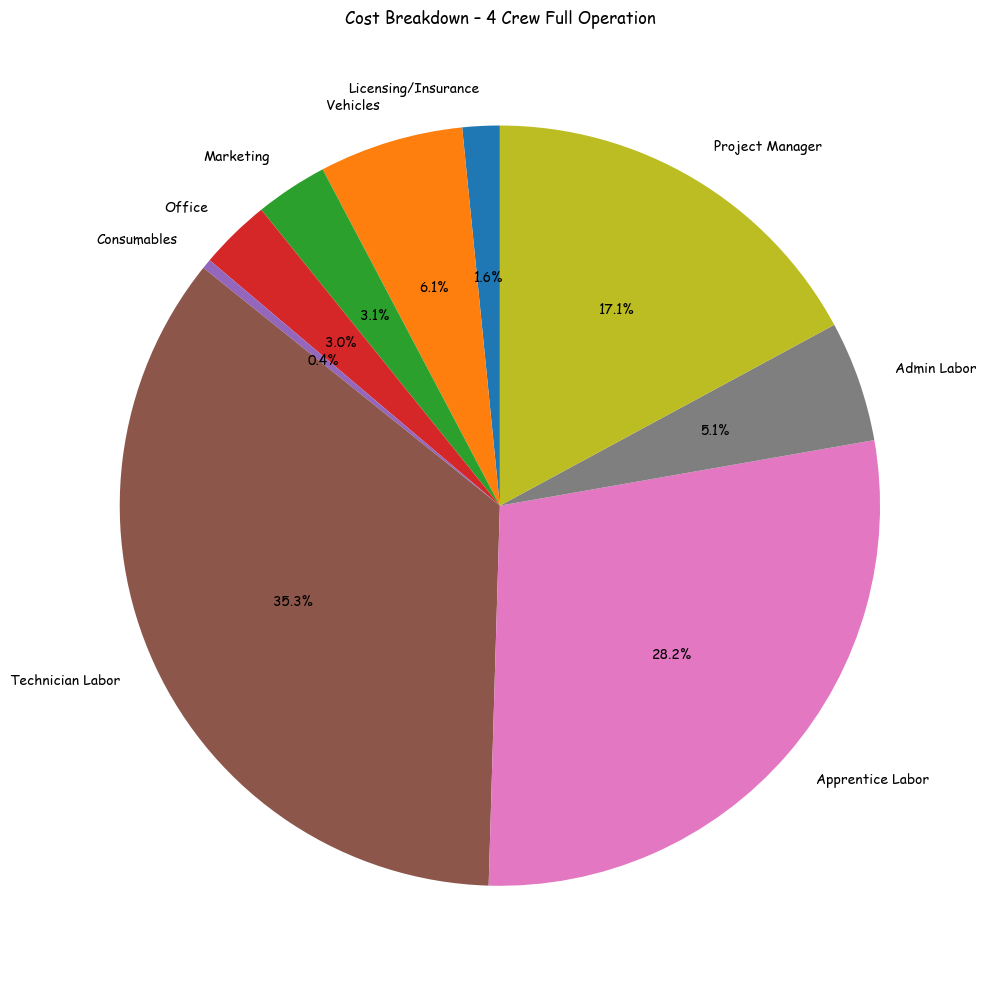
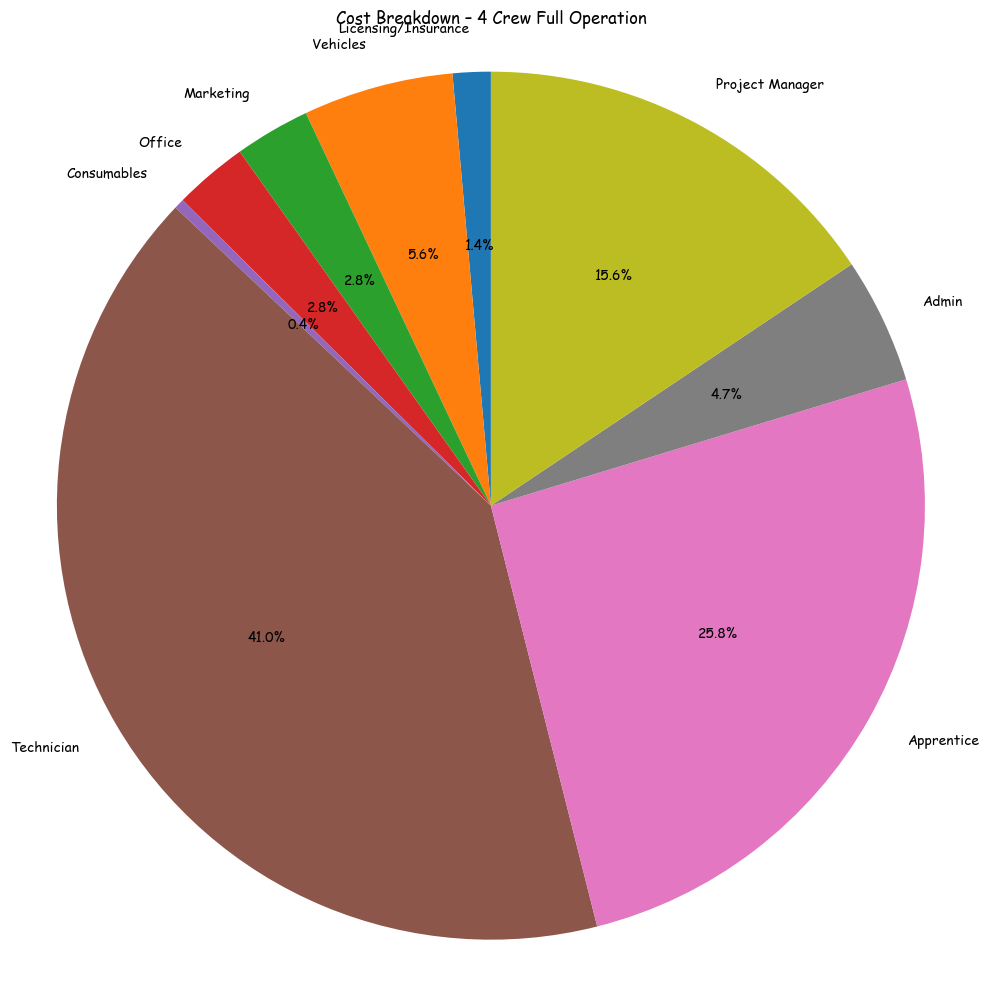
refactor: use new data source and make scripts data-driven

diff --git a/generate_charts.py b/generate_charts.py
@@ -35,17 +35,32 @@ def annotate_bars(ax: plt.Axes, bars: list[plt.Rectangle], formatter) -> None:
 
 def format_currency(value: float) -> str:
     """Return a human-friendly currency string rounded to the nearest dollar."""
-    return f"${value:,.0f}"
+    return f"${int(value):,}"
 
 def format_percent(value: float) -> str:
     """Return a percentage string with one decimal place."""
     return f"{value:.1f}%"
 
-def revenue_cost_profit_chart(data) -> None:
-    crews = [f"{i} Crew" + ("s" if i > 1 else "") for i in data.keys()]
-    revenue = np.array([d['monthly_revenue'] for d in data.values()])
-    costs = np.array([d['monthly_costs'] for d in data.values()])
-    profit = np.array([d['monthly_profit'] for d in data.values()])
+def revenue_cost_profit_chart(projections_data) -> None:
+    crews = ["1 Crew", "2 Crews", "3 Crews", "4 Crews"]
+    revenue = np.array([
+        float(projections_data[19][4].replace('$', '').replace(',', '')),
+        float(projections_data[19][6].replace('$', '').replace(',', '')),
+        float(projections_data[19][8].replace('$', '').replace(',', '')),
+        float(projections_data[19][10].replace('$', '').replace(',', '')),
+    ])
+    costs = np.array([
+        float(projections_data[18][4].replace('$', '').replace(',', '')),
+        float(projections_data[18][6].replace('$', '').replace(',', '')),
+        float(projections_data[18][8].replace('$', '').replace(',', '')),
+        float(projections_data[18][10].replace('$', '').replace(',', '')),
+    ])
+    profit = np.array([
+        float(projections_data[20][4].replace('$', '').replace(',', '')),
+        float(projections_data[20][6].replace('$', '').replace(',', '')),
+        float(projections_data[20][8].replace('$', '').replace(',', '')),
+        float(projections_data[20][10].replace('$', '').replace(',', '')),
+    ])
 
     x = np.arange(len(crews))
     width = 0.25
@@ -75,9 +90,21 @@ def revenue_cost_profit_chart(data) -> None:
     fig.savefig(OUTPUT_DIR / "revenue_chart.png", bbox_inches="tight")
     plt.close(fig)
 
-def profit_margin_chart(data) -> None:
-    crews = [f"{i} Crew" + ("s" if i > 1 else "") for i in data.keys()]
-    profit_margin = np.array([float(d['profit_margin'].strip('%')) for d in data.values()])
+def profit_margin_chart(projections_data) -> None:
+    crews = ["1 Crew", "2 Crews", "3 Crews", "4 Crews"]
+    revenue = np.array([
+        float(projections_data[19][4].replace('$', '').replace(',', '')),
+        float(projections_data[19][6].replace('$', '').replace(',', '')),
+        float(projections_data[19][8].replace('$', '').replace(',', '')),
+        float(projections_data[19][10].replace('$', '').replace(',', '')),
+    ])
+    profit = np.array([
+        float(projections_data[20][4].replace('$', '').replace(',', '')),
+        float(projections_data[20][6].replace('$', '').replace(',', '')),
+        float(projections_data[20][8].replace('$', '').replace(',', '')),
+        float(projections_data[20][10].replace('$', '').replace(',', '')),
+    ])
+    profit_margin = (profit / revenue) * 100
 
     x = np.arange(len(crews))
 
@@ -101,14 +128,9 @@ def profit_margin_chart(data) -> None:
     fig.savefig(OUTPUT_DIR / "profit_margin_chart.png", bbox_inches="tight")
     plt.close(fig)
 
-def cost_breakdown_chart() -> None:
-    with open('operating_expenses.csv', 'r') as f:
-        reader = csv.reader(f)
-        header = next(reader)
-        data = list(reader)
-
-    categories = [row[0] for row in data]
-    amounts = [int(row[4]) for row in data]
+def cost_breakdown_chart(projections_data) -> None:
+    categories = [row[1] for row in projections_data[9:18]]
+    amounts = [float(row[10].replace('$', '').replace(',', '')) for row in projections_data[9:18]]
 
     fig, ax = plt.subplots(figsize=(10, 10))
     
@@ -121,27 +143,12 @@ def cost_breakdown_chart() -> None:
     fig.savefig(OUTPUT_DIR / "cost_breakdown.png", bbox_inches="tight")
     plt.close(fig)
 
-def main() -> None:
-    with open('business_plan_data.csv', 'r') as f:
-        reader = csv.reader(f)
-        header = next(reader)
-        data = list(reader)
-
-    crew_data = {}
-    for row in data:
-        crew_count = int(row[0])
-        crew_data[crew_count] = {
-            'monthly_revenue': float(row[1]),
-            'monthly_costs': float(row[2]),
-            'monthly_profit': float(row[3]),
-            'profit_margin': row[4]
-        }
-
-    revenue_cost_profit_chart(crew_data)
-    profit_margin_chart(crew_data)
-    cost_breakdown_chart()
-    print("Charts regenerated successfully.")
-
-
 if __name__ == "__main__":
-    main()
+    with open('BIBLE/Nashville Electrical Business Plan - Projections.csv', 'r') as f:
+        reader = csv.reader(f)
+        projections_data = list(reader)
+
+    revenue_cost_profit_chart(projections_data)
+    profit_margin_chart(projections_data)
+    cost_breakdown_chart(projections_data)
+    print("Charts regenerated successfully.")

diff --git a/generate_business_plan.py b/generate_business_plan.py
@@ -43,21 +43,22 @@ def main():
     template = template.replace('{crew_3_monthly_costs_total}', format_currency(crew_data[3]['monthly_costs']))
     template = template.replace('{crew_4_monthly_costs_total}', format_currency(crew_data[4]['monthly_costs']))
 
-    with open('operating_expenses.csv', 'r') as f:
+    with open('BIBLE/Nashville Electrical Business Plan - Projections.csv', 'r') as f:
         reader = csv.reader(f)
-        header = next(reader)
-        operating_expenses_data = list(reader)
+        projections_data = list(reader)
 
     monthly_operating_costs_table = "| Category | 1 Crew Monthly | 2 Crew Monthly | 3 Crew Monthly | 4 Crew Monthly |\n|---|---|---|---|---|"
     totals = [0, 0, 0, 0]
-    for row in operating_expenses_data:
-        monthly_operating_costs_table += f"| {row[0]} | ${int(row[1]):,} | ${int(row[2]):,} | ${int(row[3]):,} | ${int(row[4]):,} |\n"
-        totals[0] += int(row[1])
-        totals[1] += int(row[2])
-        totals[2] += int(row[3])
-        totals[3] += int(row[4])
-    
-    monthly_operating_costs_table += f"| **Total Monthly Costs** | **${totals[0]:,}** | **${totals[1]:,}** | **${totals[2]:,}** | **${totals[3]:,}** |\n"
+    for i in range(9, 18):
+        row = projections_data[i]
+        monthly_operating_costs_table += f"| {row[1]} | ${int(row[4].replace('$', '').replace(',', '')):,} | ${int(row[6].replace('$', '').replace(',', '')):,} | ${int(row[8].replace('$', '').replace(',', '')):,} | ${int(row[10].replace('$', '').replace(',', '')):,} |\n"
+        totals[0] += int(row[4].replace('$', '').replace(',', ''))
+        totals[1] += int(row[6].replace('$', '').replace(',', ''))
+        totals[2] += int(row[8].replace('$', '').replace(',', ''))
+        totals[3] += int(row[10].replace('$', '').replace(',', ''))
+
+    total_costs_row = projections_data[18]
+    monthly_operating_costs_table += f"| **Total Monthly Costs** | **${int(total_costs_row[4].replace('$', '').replace(',', '')):,}** | **${int(total_costs_row[6].replace('$', '').replace(',', '')):,}** | **${int(total_costs_row[8].replace('$', '').replace(',', '')):,}** | **${int(total_costs_row[10].replace('$', '').replace(',', '')):,}** |\n"
 
     template = template.replace('{monthly_operating_costs_table}', monthly_operating_costs_table)
 

diff --git a/README.md b/README.md
@@ -12,7 +12,7 @@ A business plan for a residential electrical contracting company in Nashville, T
 **Key Financial Metrics:**
 - Year 1 Startup Costs: $16,800
 - Year 1 Revenue Projection: 384,996 (First Crew)
-- Year 1 Profit Projection: 159,000 (First Crew)
+- Year 1 Profit Projection: 162,828 (First Crew)
 - Target: Scale to 4 crews within 12 months
 - Year 1 Total Company Revenue Potential: 1,415,004 (with all 4 crews)
 
@@ -39,10 +39,10 @@ The Nashville electrical market is competitive. We will differentiate ourselves 
 
 | crew_count | monthly_revenue | monthly_costs | monthly_profit | profit_margin |
 |---|---|---|---|---|
-| 1 | 32,083 | 18,833 | 13,250 | 41.3% |
-| 2 | 64,167 | 49,081 | 15,086 | 23.5% |
-| 3 | 91,042 | 59,120 | 31,922 | 35.1% |
-| 4 | 117,917 | 64,943 | 52,974 | 44.9% |
+| 1 | 32,083 | 18,515 | 13,569 | 42.3% |
+| 2 | 64,167 | 35,971 | 28,196 | 43.9% |
+| 3 | 91,042 | 59,121 | 31,920 | 35.1% |
+| 4 | 117,917 | 71,161 | 46,756 | 39.7% |
 
 
 ### Revenue Model by Crew Size
@@ -50,7 +50,7 @@ The Nashville electrical market is competitive. We will differentiate ourselves 
 #### First Crew (Hired Technician, Mike's PM)
 - **Annual Revenue:** 384,996
 - **Monthly Revenue:** 32,083
-- **Total First Year Profit:** 159,000
+- **Total First Year Profit:** 162,828
 
 **Crew Composition:**
 - Hired Lead Technician: 30 hours/week at $30-50/hour base pay
@@ -64,8 +64,8 @@ The Nashville electrical market is competitive. We will differentiate ourselves 
 #### Second Crew (Growth Phase)
 - **Annual Revenue:** 770,004
 - **Monthly Revenue:** 64,167
-- **Monthly Costs:** 49,081
-- **Monthly Profit:** 15,086
+- **Monthly Costs:** 35,971
+- **Monthly Profit:** 28,196
 
 **Crew Composition:**
 - Hours per week: 20
@@ -89,16 +89,16 @@ The Nashville electrical market is competitive. We will differentiate ourselves 
 ### Monthly Operating Costs Structure
 
 | Category | 1 Crew Monthly | 2 Crew Monthly | 3 Crew Monthly | 4 Crew Monthly |
-|---|---|---|---|---|| Licensing/Insurance | $256 | $632 | $819 | $1,028 |
-| Vehicles | $583 | $2,283 | $3,133 | $3,985 |
+|---|---|---|---|---|| Licensing/Insurance | $445 | $632 | $819 | $1,006 |
+| Vehicles | $1,433 | $2,283 | $3,133 | $3,983 |
 | Marketing | $2,000 | $2,000 | $2,000 | $2,000 |
-| Office | $1,281 | $1,619 | $1,788 | $1,967 |
+| Office | $1,450 | $1,619 | $1,788 | $1,957 |
 | Consumables | $269 | $269 | $269 | $269 |
-| Technician Labor | $0 | $18,667 | $22,917 | $22,917 |
-| Apprentice Labor | $0 | $9,167 | $13,750 | $18,333 |
-| Admin Labor | $3,333 | $3,333 | $3,333 | $3,333 |
-| Project Manager | $11,111 | $11,111 | $11,111 | $11,111 |
-| **Total Monthly Costs** | **$18,833** | **$49,081** | **$59,120** | **$64,943** |
+| Technician | $8,333 | $16,667 | $22,917 | $29,167 |
+| Apprentice | $4,583 | $9,167 | $13,750 | $18,333 |
+| Admin | $0 | $3,333 | $3,333 | $3,333 |
+| Project Manager | $0 | $0 | $11,111 | $11,111 |
+| **Total Monthly Costs** | **$18,515** | **$35,971** | **$59,121** | **$71,161** |
 
 
 ### Key Expense Categories
@@ -137,7 +137,7 @@ The Nashville electrical market is competitive. We will differentiate ourselves 
 - **Brendan Dauenhauer:** Investor/Business Partner
 - Hourly rate to clients: $100
 - Labor cost to company: Technician base pay ($30-50/hour)
-- Profit margin after labor: 41.3%
+- Profit margin after labor: 42.3%
 
 #### Two Crew Model
 - Crew 1: Technician + Apprentice (30 hours/week)
@@ -189,21 +189,21 @@ Brendan has a background in business administration and finance. His expertise i
 
 ### 2 Crew Scenario (By Month 4-6)
 - Total Monthly Revenue: 64,167
-- Total Monthly Costs: 49,081
-- Monthly Profit: 15,086
-- Annual Profit (8 months): 120,688
+- Total Monthly Costs: 35,971
+- Monthly Profit: 28,196
+- Annual Profit (8 months): 225,568
 
 ### 3 Crew Scenario (By Month 8-10)
 - Total Monthly Revenue: 91,042
-- Total Monthly Costs: 59,120
-- Monthly Profit: 31,922
+- Total Monthly Costs: 59,121
+- Monthly Profit: 31,920
 - Represents 35.1% net margin during growth phase
 
 ### 4 Crew Full Operation
 - Total Monthly Revenue: 117,917
-- Total Monthly Costs: 64,943
-- Monthly Profit: 52,974
-- Represents 44.9% net margin with all crews operational
+- Total Monthly Costs: 71,161
+- Monthly Profit: 46,756
+- Represents 39.7% net margin with all crews operational
 
 ---
 
@@ -339,19 +339,19 @@ Brendan has a background in business administration and finance. His expertise i
 
 ### Monthly Cash Flow Analysis
 
-Month 1: Revenue 32,083 - Costs 18,833 = +{crew_1_monthly_profit} profit
-         (Minus $16,800 startup = -3,550 net)
+Month 1: Revenue 32,083 - Costs 18,515 = +{crew_1_monthly_profit} profit
+         (Minus $16,800 startup = -3,231 net)
 
-Month 2: Revenue 32,083 - Costs 18,833 = +{crew_1_monthly_profit} profit
-         (Cumulative: -3,550 + {crew_1_monthly_profit} = 9,700)
+Month 2: Revenue 32,083 - Costs 18,515 = +{crew_1_monthly_profit} profit
+         (Cumulative: -3,231 + {crew_1_monthly_profit} = 10,338)
 
 Month 3+: Steady +${crew_1_monthly_profit}/month profit
 
 ### Annual Cash Flow Projection
 
 Startup Investment:           -$16,800
-Year 1 Total Profit:          +159,000
-Adjusted Year 1 Net:          142,200
+Year 1 Total Profit:          +162,828
+Adjusted Year 1 Net:          146,028
 Year 2 Projection:            +$164,000+
 
 ---
@@ -432,7 +432,7 @@ Year 2 Projection:            +$164,000+
 ### Month 12: Full Operation
 - ✓ 117,917 monthly revenue (3-4 crews)
 - ✓ All 4 crews operational
-- ✓ 635,688 annual profit achieved
+- ✓ 561,072 annual profit achieved
 - ✓ Company systems and team established for scaling
 
 ---
